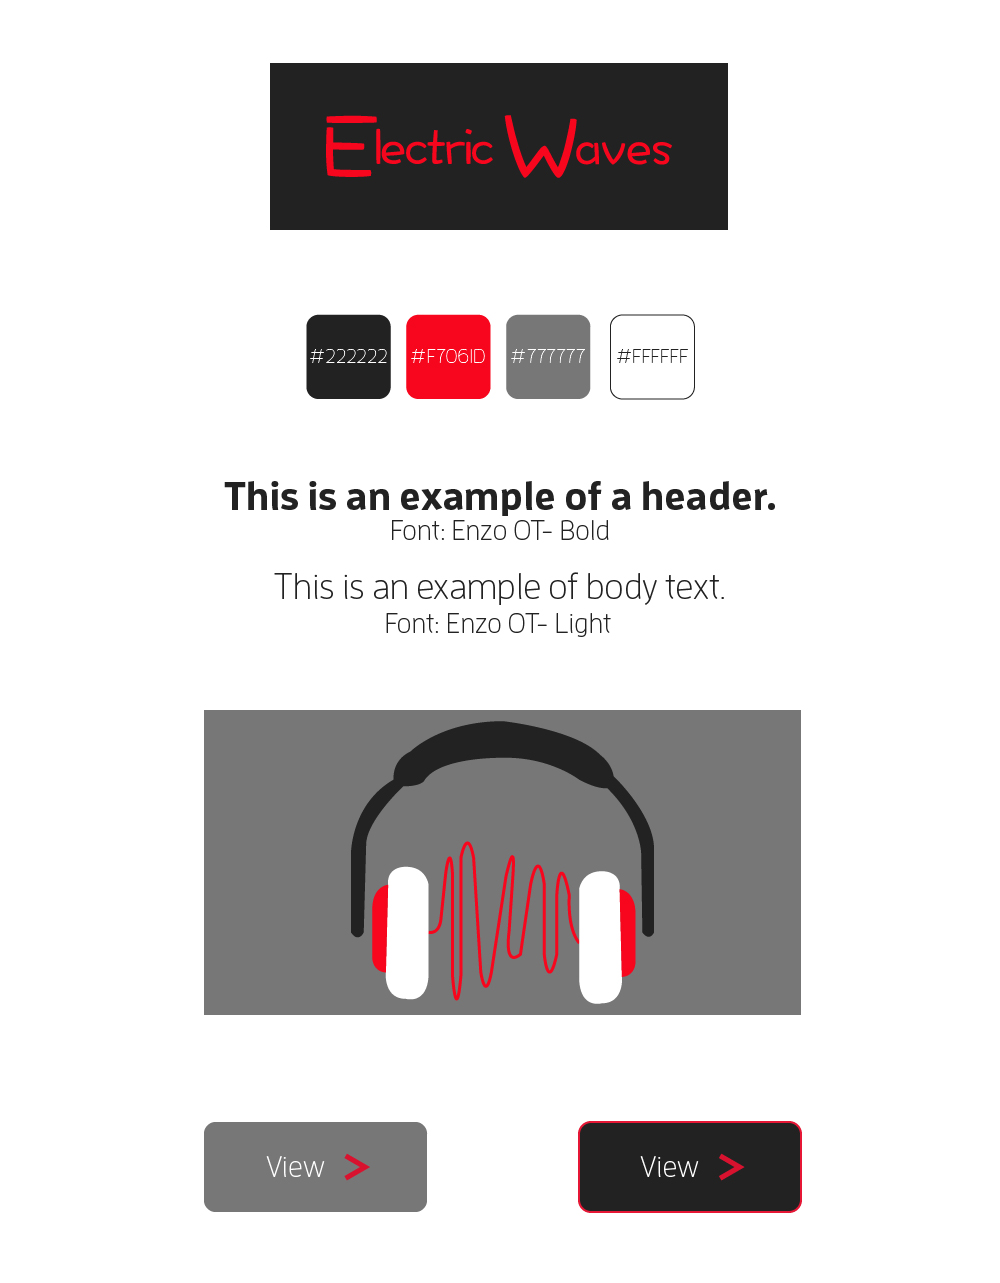
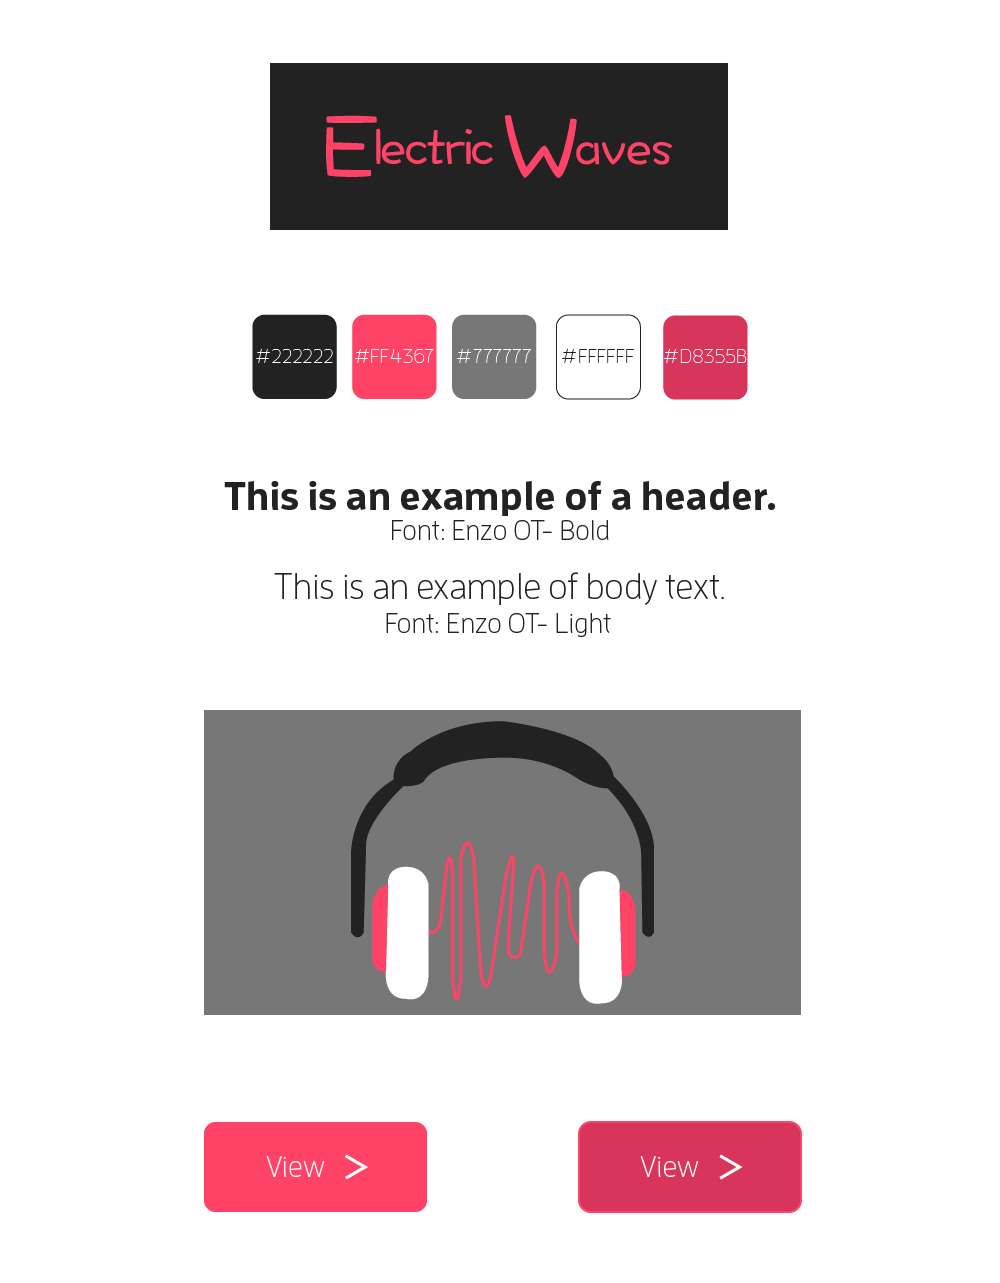
added personas to user studies

diff --git a/css/mystyles.css b/css/mystyles.css
@@ -26,6 +26,12 @@ a:focus, a:hover {
     text-decoration: underline;
 }
 
+.btn-primary {
+    color: #fff;
+    background-color: #FF4367;
+    border-color: #FF4367;
+}
+
 .btn-primary.focus, .btn-primary:focus {
     color: #fff;
     background-color: #222222;
@@ -36,12 +42,6 @@ h1, h2, h3 {
   font-family: "ff-enzo-web",sans-serif;
   font-weight: bold;
   }
-
-.btn-primary {
-    color: #fff;
-    background-color: #777;
-    border-color: #777;
-}
 
 .container-list {
   margin: 0 auto;
@@ -145,8 +145,12 @@ h1, h2, h3 {
   width: 15%;
 }
 
-span {
+hero-text.span {
   color: #FF4367;
+}
+
+span {
+  color: white;
 }
 
 .first-video {
@@ -155,8 +159,8 @@ span {
 
 .btn-primary:hover {
     color: #fff;
-    background-color: #222222;
-    border-color: #F7061D;
+    background-color: #D8355B;
+    border-color: #D8355B;
 }
 
 @media (max-width: 900px) {

diff --git a/Pitch&UserStudies.md b/Pitch&UserStudies.md
@@ -6,7 +6,7 @@
 
 ## Who is the site for?
 
-The sites content will primarily be directed towards novice recordists but will also contain information for advanced engineers.
+The sites content will initially be directed towards novice recordists. Eventually the site will contain tutorials for more advanced engineers.
 
 ## What problem am I solving?
 
@@ -24,18 +24,18 @@ This will work because this is a very popular field and people turn to the inter
 
 ## Elevator Pitch
 
-I would like to build a site that brings together video tutorials along with blogs/articles about audio production.
+I would like to build a site that brings together video tutorials along with blogs/articles for novice recordists about audio production.
 
 ## The 5 W's
 
-This site will be for aspiring, novice recordists as well as advanced engineers. I have been through the incredibly lengthy and confusing process of learning how to mix and master, and it is quite daunting. I'd like to help speed up the process for others by sharing my experiences, trials and tribulations.
+This site will be for aspiring, novice recordists, and eventually as well as advanced engineers. I have been through the incredibly lengthy and confusing process of learning how to record, mix and master, and it is quite daunting. I'd like to help speed up the process for others by sharing my experiences, trials and tribulations.
 
 ## BASIC FEATURES/CONTENT
 
 * video tutorials  
 * resources (articles/interviews)  
 * plug-in reviews
-* microphones
+* microphone basics
 * feedback form
 
 ## SITE MAP
@@ -55,7 +55,72 @@ This site will be for aspiring, novice recordists as well as advanced engineers.
 
 ## MVP
 
-At the very least I will need branding that includes a logo (icon and typographical), a color scheme and a body font plus header font. There will need to be a HOME page, a VIDEOS page, a PLUG-IN page, a MICROPHONES page, a RESOURCES page, and a FEEDBACK page. The home page will feature one of the latest additions to the main categories- a video, one plug-in review, and an article/link to an external resource/site- this way the user can immediately engage with the content upon initially viewing the site. The user can then select a link from the navigation to further view more specific content- i.e., tutorials, featured plug-ins, and a list of all resources for learning (links to external sites or articles). The site will need to be responsive so it can properly be viewed from any device.
+At the very least I will need branding that includes a logo (icon and typographical), a color scheme and a body font plus header font. There will need to be a **HOME** page, a **VIDEOS** page, a **PLUG-IN** page, a **MICROPHONES** page, a **RESOURCES** page, and a **FEEDBACK** page. The home page will feature one of the latest additions to the main categories- a video, one plug-in review, and an article/link to an external resource/site- this way the user can immediately engage with the content upon initially viewing the site. The user can then select a link from the navigation to further view more specific content- i.e., tutorials, featured plug-ins, and a list of all resources for learning (links to external sites or articles). The site will need to be responsive so it can properly be viewed from any device.
+
+# PERSONAS
+
+## Persona 1: "Andrew"
+
+_Profile:_ Musician- Guitar/Vocals  
+_Gender:_ Male  
+_Age:_ 30  
+_Location:_ Houston, Tx  
+_Job Title:_ Sales, Music Education $30k
+
+_Description:_
+
+Andrew works at a local music shop and sells guitars. He also teaches guitar lessons. He's been a musician since he was a young boy and he has played in many bands who have spent time in studios making demo's/albums of their original material. He does not have much experience doing any of the engineering or mixing himself.
+
+_Goals:_
+
+Wants to write songs and record them himself.  
+Wants to learn about recording and mixing music with computers.
+
+_Frustrations:_
+
+Doesn't know anyone who can show him the way and does not have time/money to go to school for audio.  
+
+## Persona 2: "Laura"
+
+_Profile:_ Musician- Keys/Vocals  
+_Gender:_ Female   
+_Age:_ 16  
+_Location:_ Austin, Tx  
+_Job Title:_ Student
+
+_Description:_
+
+Laura has been taking piano and voice lessons since she was 5 years old. She is now writing her own songs and would like to be able to record them at home. She has a Mac, an audio interface, a decent microphone, and she likes to use Apple's Logic recording software. She is pretty good with computers so she has been able to do a lot of learning by trial and error, and likes to experiment with new techniques. She is looking for a place where she can learn even more.  
+
+_Goals:_
+
+She would like to make her demo's sound more like professional recordings.
+
+_Frustrations:_
+
+All of the sites she visits want her to pay for a membership and a lot of the free videos on YouTube are poor quality and confusing.
+
+## Persona 3: "Kevin"
+
+_Profile:_ Audio Engineer  
+_Gender:_ Male   
+_Age:_ 23
+_Location:_ NYC
+_Job Title:_ Intern at a recording studio
+
+_Description:_
+
+Kevin is fresh out of school for audio engineering. He is overwhelmed by the amount of information he just took in over the duration of the two year course and needs help really understanding all of the different concepts. He takes an unpaid internship at a local studio so he can keep learning and in his spare time he surfs the web for good tutorials and practices recording and mixing at home. He frequently takes on free projects for friends.
+
+_Goals:_
+
+Wants to reiterate the things he learned in school to better understand them so he can implement them quickly and easily.  
+
+He wants to impress the head engineer at the studio.
+
+_Frustrations:_
+
+Has a hard time learning things the first time, but is no longer in school. His time as an intern in the studio is valuable but does not want to interrupt the sessions every time he has a question.
 
 ## USER STORIES
 
